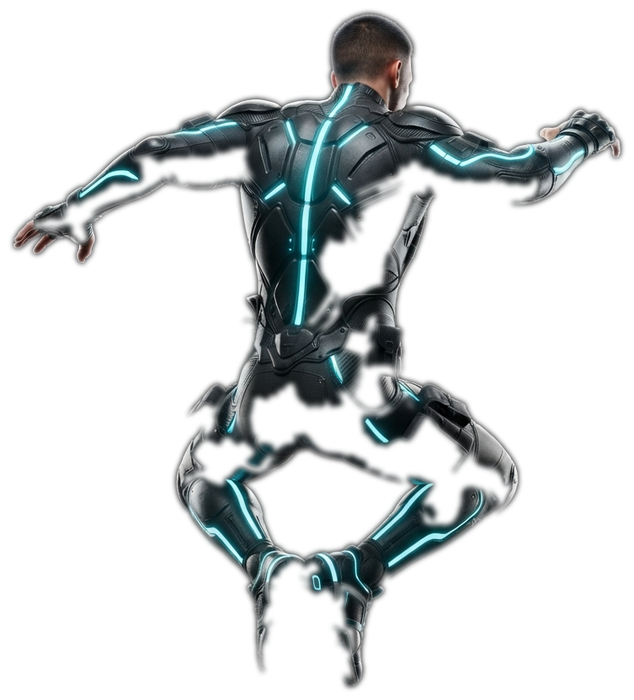
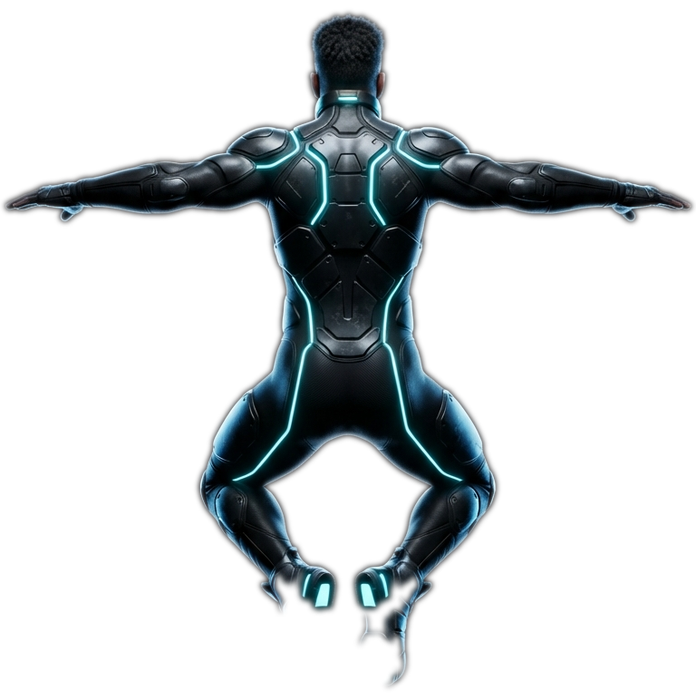
Neon Runner: fix facing/jump-fairness bugs, decouple spawns, bigger visuals, per-mood skyboxes
- Regenerated player run/jump/slide sprites as a straight, symmetric
  back view. The previous "3/4 angle" framing was baked into the
  source photo itself, so the character always looked twisted toward
  one side regardless of movement - not a rendering bug.
- Coins had no spawn timer of their own; they always fired in lockstep
  with the obstacle spawn, cluttering every lane at once. Coins now
  spawn on an independent timer and land in a random subset of lanes.
- Jump hitbox was full standing height even mid-air, so a jump that
  visually cleared a creature (legs tucked in the jump sprite) could
  still register a hit. Shrunk the hitbox while airborne, raised jump
  height, and shortened how long a passed obstacle lingers at full
  size before despawning.
- Coins, power-ups, and creature sprites are all scaled up for better
  readability.
- Added 3 more Gemini-generated skyboxes (red/blue/orange) so the
  mood system - which already re-tinted and re-fogged the scene every
  ~100 distance - now swaps the actual skybox image too, instead of
  just a color wash over the same purple sky.

diff --git a/games/51-neon-runner.html b/games/51-neon-runner.html
@@ -35,7 +35,13 @@ const BG=new Image(); BG.src='../assets/backgrounds/neon-runner-bg.jpg';
 const MOOD_LABELS=['CYBER CITY','VIRUS ALERT','DEEP SCAN','OVERDRIVE'];
 const MOOD_OVERLAYS=['rgba(0,255,255,0.04)','rgba(255,0,50,0.3)','rgba(0,50,255,0.3)','rgba(255,100,0,0.22)'];
 let moodIdx=0,moodFade=0,moodChanging=false,moodText='',moodTextT=0;
-function triggerMood(n){moodIdx=n%MOOD_LABELS.length;moodFade=0;moodChanging=true;moodText=MOOD_LABELS[moodIdx];moodTextT=120;}
+const MOOD_SKIES=['sky.jpg','sky-virus.jpg','sky-scan.jpg','sky-overdrive.jpg'];
+function triggerMood(n){
+  moodIdx=n%MOOD_LABELS.length;moodFade=0;moodChanging=true;moodText=MOOD_LABELS[moodIdx];moodTextT=120;
+  if(shell3d&&typeof shell3d.setSkyTexture==='function'){
+    shell3d.setSkyTexture('../assets/game-art/neon-runner/'+MOOD_SKIES[moodIdx]);
+  }
+}
 const cv=document.getElementById('c'),cx=cv.getContext('2d');
 let W,H,GY;
 function resize(){
@@ -71,12 +77,12 @@ function render3D(){
   shell3d.render();
   drawMoodOverlay();
 }
-const LSK='nr_hs',GRAV=0.55,JV=-13.5,SDUR=38,ISPD=4.5,MSPD=9,RAMP=0.2,RINT=300,SBASE=340,SRAND=120,MAX_LIVES=5;
+const LSK='nr_hs',GRAV=0.55,JV=-14.5,SDUR=38,ISPD=4.5,MSPD=9,RAMP=0.2,RINT=300,SBASE=340,SRAND=120,CBASE=210,CRAND=140,MAX_LIVES=5;
 // Neon signs
 const signs=[{x:0.7,y:0.2,txt:'CYBER',col:'#ff0080'},{x:0.45,y:0.12,txt:'NEON',col:'#00ffff'},{x:0.2,y:0.18,txt:'CITY',col:'#ff0080'}];
 // Rain
 const rain=Array.from({length:80},()=>({x:Math.random(),y:Math.random(),len:0.02+Math.random()*0.03,speed:0.015+Math.random()*0.01}));
-let state='start',sc,dist,coins,mult,spd,fr,sclk,best,vy,py,sliding,stmr,dead,inv,invT,lives;
+let state='start',sc,dist,coins,mult,spd,fr,sclk,cclk,best,vy,py,sliding,stmr,dead,inv,invT,lives;
 let obs=[],coll=[],parts=[],pups=[],ftxts=[];
 let shield,mag,slow,shT,mgT,slT,hintT,bgOff=0;
 /* ── Lanes ── 3-lane strafing (0=left,1=center,2=right). `lane` is
@@ -87,7 +93,7 @@ const LANES=3,LANE_GAP=()=>W*0.34;
 function laneX(i){return W*0.5+(i-1)*LANE_GAP();}
 let lane=1,px=0;
 function moveLane(d){lane=Math.max(0,Math.min(LANES-1,lane+d));}
-function init(){sc=0;dist=0;coins=0;mult=1;spd=ISPD;fr=0;sclk=0;vy=0;py=GY;sliding=false;stmr=0;dead=false;inv=false;invT=0;lives=MAX_LIVES;obs=[];coll=[];parts=[];pups=[];ftxts=[];shield=false;mag=false;slow=false;shT=0;mgT=0;slT=0;hintT=300;bgOff=0;best=parseInt(localStorage.getItem(LSK)||'0');moodIdx=0;moodFade=0;moodChanging=false;moodText='';moodTextT=0;lane=1;px=laneX(1);}
+function init(){sc=0;dist=0;coins=0;mult=1;spd=ISPD;fr=0;sclk=0;cclk=0;vy=0;py=GY;sliding=false;stmr=0;dead=false;inv=false;invT=0;lives=MAX_LIVES;obs=[];coll=[];parts=[];pups=[];ftxts=[];shield=false;mag=false;slow=false;shT=0;mgT=0;slT=0;hintT=300;bgOff=0;best=parseInt(localStorage.getItem(LSK)||'0');moodIdx=0;moodFade=0;moodChanging=false;moodText='';moodTextT=0;lane=1;px=laneX(1);}
 const keys={};
 function keyIs(e){return Array.prototype.slice.call(arguments,1).some(n=>e.code===n||e.key===n);}
 window.addEventListener('keydown',e=>{keys[e.code]=true;if(state==='play'){if(keyIs(e,'ArrowUp','Space',' '))doJump();if(keyIs(e,'ArrowDown','KeyS','s','S'))doSlide();if(keyIs(e,'ArrowLeft','KeyA','a','A'))moveLane(-1);if(keyIs(e,'ArrowRight','KeyD','d','D'))moveLane(1);}if(keyIs(e,'Space',' ','Enter')&&state!=='play')startGame();e.preventDefault();});
@@ -229,21 +235,21 @@ function drawDino(o){
   const img=ENEMY_IMGS.dino;
   if(!imgReady(img)){drawDinoVector(o);return;}
   const atk=creatureAtk(o),jx=atk*Math.sin(fr*0.9)*o.w*0.05;
-  const h=o.h*2.3,w=h*(img.naturalWidth/img.naturalHeight),bx=o.x+o.w/2+jx,by=o.y+o.h;
+  const h=o.h*2.6,w=h*(img.naturalWidth/img.naturalHeight),bx=o.x+o.w/2+jx,by=o.y+o.h;
   cx.drawImage(img,bx-w/2,by-h,w,h);
 }
 function drawScorpion(o){
   const img=ENEMY_IMGS.scorpion;
   if(!imgReady(img)){drawScorpionVector(o);return;}
   const atk=creatureAtk(o),jx=atk*Math.sin(fr*0.9)*o.w*0.06;
-  const h=o.h*1.35,w=h*(img.naturalWidth/img.naturalHeight),bx=o.x+o.w/2+jx,by=o.y+o.h;
+  const h=o.h*1.55,w=h*(img.naturalWidth/img.naturalHeight),bx=o.x+o.w/2+jx,by=o.y+o.h;
   cx.drawImage(img,bx-w/2,by-h,w,h);
 }
 function drawBat(o){
   const img=ENEMY_IMGS.bat;
   if(!imgReady(img)){drawBatVector(o);return;}
   const atk=creatureAtk(o);
-  const w=o.w*1.35,h=w*(img.naturalHeight/img.naturalWidth),mx=o.x+o.w/2,my=o.y+o.h/2-atk*o.h*0.6;
+  const w=o.w*1.55,h=w*(img.naturalHeight/img.naturalWidth),mx=o.x+o.w/2,my=o.y+o.h/2-atk*o.h*0.6;
   cx.drawImage(img,mx-w/2,my-h/2,w,h);
 }
 function drawDinoVector(o){
@@ -363,7 +369,14 @@ function update(){
   vy+=GRAV;py+=vy;if(py>=GY){py=GY;vy=0;}
   if(sliding){stmr--;if(stmr<=0)sliding=false;}
   sclk+=spd;
-  if(sclk>=SBASE+Math.random()*SRAND){sclk=0;spawnObs();for(let i=0;i<LANES;i++)spawnCoin(i*0.06,i);if(Math.random()<0.15)spawnPup();}
+  if(sclk>=SBASE+Math.random()*SRAND){sclk=0;spawnObs();if(Math.random()<0.15)spawnPup();}
+  cclk+=spd;
+  if(cclk>=CBASE+Math.random()*CRAND){
+    cclk=0;
+    const nLanes=1+Math.floor(Math.random()*LANES);
+    const lanes=[0,1,2].sort(()=>Math.random()-0.5).slice(0,nLanes);
+    lanes.forEach((ln,i)=>spawnCoin(i*0.06,ln));
+  }
   if(hintT>0)hintT--;
   px+=(laneX(lane)-px)*0.25;
   const cs=slow?spd*0.5:spd,zStep=cs*Z_RATE;
@@ -372,28 +385,29 @@ function update(){
     const pr=projPoint(o.z,laneX(o.lane),o.ty+o.th/2);
     o.w=o.tw*pr.scale;o.h=o.th*pr.scale;o.x=pr.cx-o.w/2;o.y=pr.cy-o.h/2;
   });
-  obs=obs.filter(o=>o.z>-0.12);
+  obs=obs.filter(o=>o.z>-0.05);
   coll.forEach(c=>{
     c.a++;c.z-=mag?zStep*1.8:zStep;
     const tcy=mag?c.ty+((GY-40)-c.ty)*0.6:c.ty,tcx=mag?px:laneX(c.lane);
     const pr=projPoint(c.z,tcx,tcy);
-    c.x=pr.cx;c.y=pr.cy;c.r=10*pr.scale;
+    c.x=pr.cx;c.y=pr.cy;c.r=15*pr.scale;
   });
   coll=coll.filter(c=>c.z>-0.15&&!c.collected);
   pups.forEach(p=>{
     p.a++;p.z-=zStep;
     const pr=projPoint(p.z,laneX(p.lane),GY-65);
-    p.x=pr.cx;p.y=pr.cy;p.r=12*pr.scale;
+    p.x=pr.cx;p.y=pr.cy;p.r=17*pr.scale;
   });
   pups=pups.filter(p=>p.z>-0.15&&!p.collected);
   parts.forEach(p=>{p.x+=p.vx;p.y+=p.vy;p.vy+=0.15;p.life--;});parts=parts.filter(p=>p.life>0);
   ftxts.forEach(f=>{f.y+=f.vy;f.life--;});ftxts=ftxts.filter(f=>f.life>0);
-  const PX=px,pw=sliding?50:26,ph=sliding?16:62,phY=sliding?py-16:py-62;
+  const airborne=!sliding&&py<GY-2;
+  const PX=px,pw=sliding?50:(airborne?22:26),ph=sliding?16:(airborne?38:62),phY=sliding?py-16:py-ph;
   if(!dead&&!inv){
     for(let o of obs){if(hit(PX-pw/2,phY,pw,ph,o)){if(shield){shield=false;inv=true;invT=60;spawnP(PX,py-30,'#00ffff',15);addFT(PX,py-60,'SHIELD!','#00ffff');}else{lives--;spawnP(PX,py-30,'#ff4444',15);if(lives<=0){dead=true;if(sc>best){best=sc;localStorage.setItem(LSK,best);}setTimeout(()=>{state='over';},800);}else{inv=true;invT=120;obs=[];addFT(PX,py-60,'❤ '+lives+' LEFT!','#ff4444');}}break;}}
   }
   if(inv&&--invT<=0)inv=false;
-  coll.forEach(c=>{if(!c.collected&&Math.abs(px-c.x)<22&&Math.abs((py-30)-c.y)<32){c.collected=true;coins++;mult=Math.min(4,1+coins*0.1);addFT(c.x,c.y,'+1','#00ffff');spawnP(c.x,c.y,'#00ffff',4);}});
+  coll.forEach(c=>{if(!c.collected&&Math.abs(px-c.x)<26&&Math.abs((py-30)-c.y)<34){c.collected=true;coins++;mult=Math.min(4,1+coins*0.1);addFT(c.x,c.y,'+1','#00ffff');spawnP(c.x,c.y,'#00ffff',4);}});
   pups.forEach(p=>{if(!p.collected&&Math.abs(px-p.x)<26&&Math.abs((py-30)-p.y)<32){p.collected=true;if(p.t==='shield'){shield=true;shT=300;}else if(p.t==='magnet'){mag=true;mgT=300;}else{slow=true;slT=200;spd=Math.max(2,spd-2);}addFT(p.x,p.y-20,p.t.toUpperCase()+'!',p.t==='shield'?'#00aaff':p.t==='magnet'?'#ff88ff':'#88ff88');}});
 }
 function draw(){
